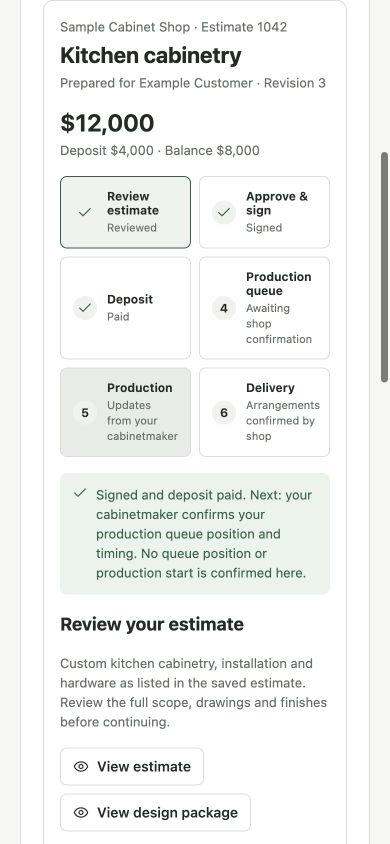
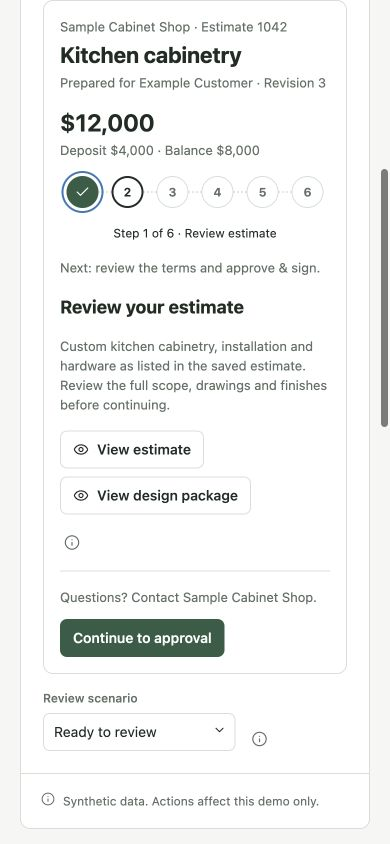
Use connected circles for workflow progress

diff --git a/packages/ui/src/WorkflowProgress.tsx b/packages/ui/src/WorkflowProgress.tsx
@@ -15,63 +15,82 @@ export type WorkflowProgressProps = {
   onSelect: (id: string) => void;
 };
 const styles = stylex.create({
-  list: {
-    display: "flex",
-    flexWrap: "wrap",
-    gap: 8,
-    padding: 0,
-    margin: 0,
-    listStyleType: "none",
+  list: { display: "flex", padding: 0, margin: 0, listStyleType: "none" },
+  item: { position: "relative", flexGrow: 1, flexBasis: 0, minWidth: 0 },
+  connector: {
+    position: "absolute",
+    top: 15,
+    insetInlineStart: "50%",
+    width: "100%",
+    borderTopWidth: 2,
+    borderTopStyle: "dotted",
+    borderTopColor: color.border,
   },
-  long: {
-    display: "grid",
-    gridTemplateColumns: {
-      default: "repeat(3,minmax(0,1fr))",
-      "@media (max-width: 600px)": "repeat(2,minmax(0,1fr))",
-    },
-  },
-  item: { flexGrow: 1, flexBasis: 160, minWidth: 0 },
   control: {
+    position: "relative",
     boxSizing: "border-box",
     display: "flex",
+    flexDirection: "column",
     alignItems: "center",
-    gap: 10,
+    gap: 12,
     width: "100%",
     height: "100%",
-    padding: 12,
-    borderWidth: 1,
-    borderStyle: "solid",
-    borderColor: color.border,
-    borderRadius: metrics.radius,
-    backgroundColor: color.surface,
+    paddingBlock: 0,
+    paddingInline: 6,
+    borderWidth: 0,
+    backgroundColor: "transparent",
     color: color.ink,
     fontFamily: "inherit",
     fontSize: metrics.small,
-    textAlign: "start",
+    textAlign: "center",
+    borderRadius: metrics.radius,
   },
   button: {
     cursor: "pointer",
-    backgroundColor: { default: color.surface, ":hover": color.hovered },
     outline: { default: "none", ":focus-visible": `2px solid ${color.focus}` },
-    outlineOffset: 2,
+    outlineOffset: 4,
   },
-  selected: { borderColor: color.accent, backgroundColor: color.subtle },
   mark: {
+    boxSizing: "border-box",
     display: "flex",
     alignItems: "center",
     justifyContent: "center",
-    width: 24,
-    height: 24,
+    width: 32,
+    height: 32,
     flexShrink: 0,
     borderRadius: "50%",
-    backgroundColor: color.subtle,
+    backgroundColor: color.surface,
+    borderWidth: 1,
+    borderStyle: "solid",
+    borderColor: color.border,
     fontWeight: 650,
   },
-  complete: { color: color.accent },
-  unavailable: { color: color.muted },
-  copy: { display: "flex", flexDirection: "column", gap: 3, minWidth: 0 },
-  title: { fontWeight: 650 },
+  current: { borderWidth: 2, borderColor: color.ink },
+  viewing: { outline: `2px solid ${color.focus}`, outlineOffset: 3 },
+  complete: {
+    color: color.onAccent,
+    backgroundColor: color.accent,
+    borderColor: color.accent,
+  },
+  attention: { borderColor: color.danger, color: color.danger },
+  upcoming: { color: color.muted },
+  copy: {
+    display: { default: "flex", "@media (max-width: 600px)": "none" },
+    flexDirection: "column",
+    gap: 4,
+    minWidth: 0,
+  },
+  title: { fontWeight: 650, fontSize: 12, lineHeight: 1.4 },
   detail: { fontSize: 11, color: color.muted, lineHeight: 1.4 },
+  mobile: {
+    display: { default: "none", "@media (max-width: 600px)": "block" },
+    marginTop: 16,
+    marginBottom: 0,
+    fontSize: metrics.small,
+    color: color.ink,
+    textAlign: "center",
+    lineHeight: 1.5,
+  },
 });
 const statusLabel = {
   complete: "Complete",
@@ -88,7 +107,7 @@ export function WorkflowProgress({
 }: WorkflowProgressProps) {
   return (
     <nav aria-label={label}>
-      <ol {...stylex.props(styles.list, steps.length > 3 && styles.long)}>
+      <ol {...stylex.props(styles.list)}>
         {steps.map((step, index) => {
           const content = (
             <>
@@ -97,6 +116,9 @@ export function WorkflowProgress({
                 {...stylex.props(
                   styles.mark,
                   step.status === "complete" && styles.complete,
+                  step.status === "current" && styles.current,
+                  step.status === "attention" && styles.attention,
+                  step.id === selectedId && styles.viewing,
                 )}
               >
                 {step.status === "complete" ? (
@@ -121,6 +143,9 @@ export function WorkflowProgress({
               aria-current={step.status === "current" ? "step" : undefined}
               {...stylex.props(styles.item)}
             >
+              {index < steps.length - 1 && (
+                <span aria-hidden="true" {...stylex.props(styles.connector)} />
+              )}
               {step.available ? (
                 <button
                   type="button"
@@ -129,15 +154,17 @@ export function WorkflowProgress({
                   {...stylex.props(
                     styles.control,
                     styles.button,
-                    step.id === selectedId && styles.selected,
+                    step.status === "upcoming" && styles.upcoming,
                   )}
                 >
                   {content}
                 </button>
               ) : (
                 <div
+                  role="group"
+                  aria-label={`${step.label}: ${statusLabel[step.status]}. ${step.detail ?? ""}`}
                   aria-disabled="true"
-                  {...stylex.props(styles.control, styles.unavailable)}
+                  {...stylex.props(styles.control, styles.upcoming)}
                 >
                   {content}
                 </div>
@@ -146,6 +173,12 @@ export function WorkflowProgress({
           );
         })}
       </ol>
+      {steps.some((step) => step.id === selectedId) && (
+        <p {...stylex.props(styles.mobile)}>
+          Step {steps.findIndex((step) => step.id === selectedId) + 1} of{" "}
+          {steps.length} · {steps.find((step) => step.id === selectedId)?.label}
+        </p>
+      )}
     </nav>
   );
 }

diff --git a/docs/customer-estimate-journey.md b/docs/customer-estimate-journey.md
@@ -4,7 +4,7 @@ Review **Patterns → Customer estimates** (`#customer-journey`) before a separa
 
 ## Shared component
 
-`WorkflowProgress` receives `label`, app-defined `steps`, `selectedId`, and `onSelect`. Each step supplies a stable `id`, concise `label`, `status` (`complete`, `current`, `upcoming`, `attention`), `detail`, and `available`. Selecting a step only navigates; it never changes completion. The selected view and next due step are distinct. Status is conveyed with text and icons, not color alone. The current task uses `aria-current="step"`; unavailable steps are descriptive and not keyboard actions. Six-stage layouts use three columns at regular widths and two on narrow screens.
+`WorkflowProgress` receives `label`, app-defined `steps`, `selectedId`, and `onSelect`. Each step supplies a stable `id`, concise `label`, `status` (`complete`, `current`, `upcoming`, `attention`), `detail`, and `available`. Selecting a step only navigates; it never changes completion. The selected view and next due step are distinct. Status is conveyed with text and icons, not color alone. The current task uses `aria-current="step"`; unavailable steps are descriptive and not keyboard actions. Steps form one horizontal sequence of numbered circles joined by a dotted line, with completed steps shown as filled checkmarks and labels underneath. On narrow screens all markers remain visible, with the viewed step label below the line instead of six crowded text columns.
 
 The shared package contains no estimate, signing, payment, queue or delivery schema. The catalog supplies those meanings and a synthetic local state machine.
 
